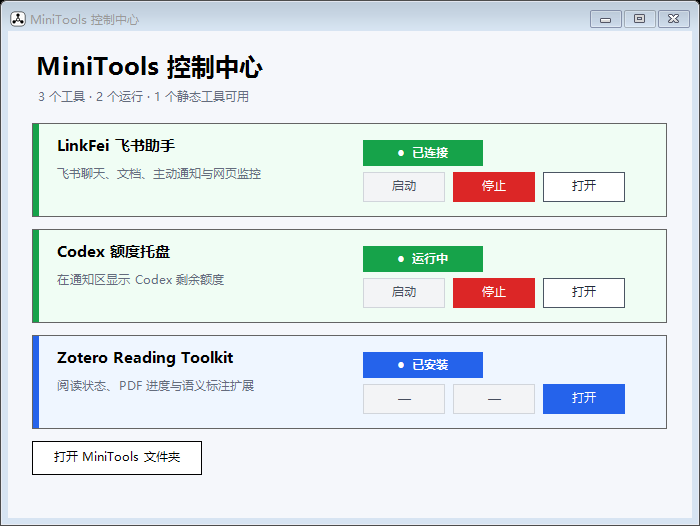
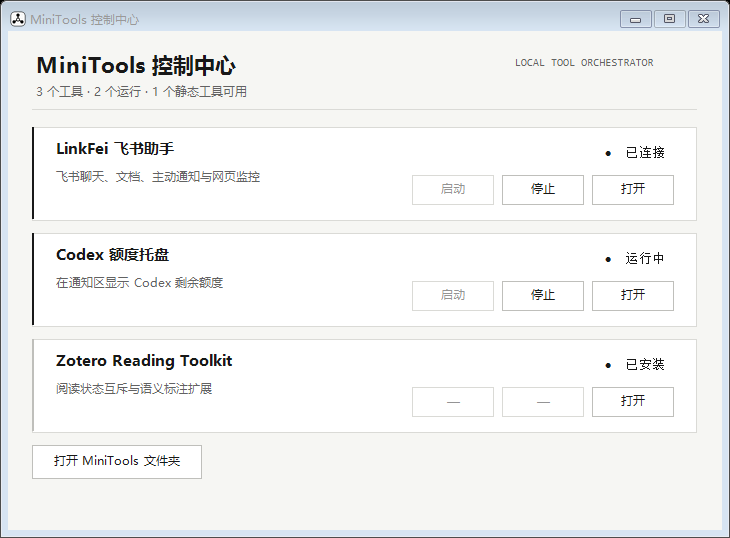
docs: refresh controller screenshot and feature guide

diff --git a/README.md b/README.md
@@ -8,12 +8,18 @@
 
 | 工具 | 功能 | 运行环境 |
 | --- | --- | --- |
-| [MiniTools 控制中心](minitools-controller/README.md) | 统一显示状态、启动、停止、打开并自动恢复本地工具 | Windows PowerShell 5.1 |
+| [MiniTools 控制中心](minitools-controller/README.md) | 统一显示状态、启动、停止、打开并自动恢复本地工具；自动跟随 Windows 深浅色主题 | Windows PowerShell 5.1 |
 | [Codex Quota Tray](codex-quota-tray/README.md) | 在通知区域用双环展示 Codex 短周期和长周期剩余额度 | Windows 10/11、已登录的 Codex |
-| [LinkFei](linkfei/README.md) | 飞书长连接机器人、DeepSeek 问答、文档、记忆与网页监控 | Node.js 22.5+、飞书应用、DeepSeek API |
-| [Zotero Reading Toolkit](zotero-reading-toolkit/README.md) | Zotero 阅读状态互斥和语义标注类型 | Zotero 8–10 |
+| [LinkFei](linkfei/README.md) | 飞书长连接机器人、DeepSeek 问答、文档、记忆、通知、网页监控及本机 Codex 远程控制 | Node.js 22.5+、飞书应用、DeepSeek API |
+| [Zotero Reading Toolkit](zotero-reading-toolkit/README.md) | Zotero 阅读状态互斥、语义标注类型与按语义汇总的阅读笔记 | Zotero 8–10 |
 
 各工具可以独立使用；控制中心通过 [`tools.json`](minitools-controller/tools.json) 将它们组合在一起。
+
+## 近期能力
+
+- **飞书控制 Codex**：LinkFei 在本机通过 Codex App Server 创建、查看、继续和停止受限工作目录中的任务。只接受已绑定的飞书私聊，命令审批为单次、限时授权；电脑无需暴露公网端口。
+- **可靠的控制中心**：服务启动和就绪检查异步执行；异常退出按退避策略恢复，连续失败后暂停等待人工处理。界面会随 Windows 的“应用模式”在浅色与深色主题间自动同步。
+- **Zotero 阅读笔记**：可按当前语义标注名称把所选文献或 PDF 的标注汇总为原生 Zotero 笔记，保留文字、评论、页码和返回标注的链接。
 
 ## 快速开始
 
@@ -47,6 +53,15 @@ powershell.exe -ExecutionPolicy Bypass -File .\Install.ps1
 
 安装器会创建开始菜单、桌面和当前用户开机启动入口。也可以直接双击 `Run MiniTools Controller.vbs` 临时运行。
 
+如需从飞书控制本机 Codex，在 LinkFei 已启动、并已在自己的飞书私聊执行 `/notify bind` 后运行：
+
+```powershell
+cd .\linkfei
+node scripts/setup-codex-remote.mjs
+```
+
+该命令只在本机 `data/codex-remote.json` 写入授权私聊与允许的项目目录；完整命令说明见 [LinkFei README](linkfei/README.md#飞书控制-codex)。
+
 ## 目录结构
 
 ```text
@@ -63,7 +78,7 @@ MiniTools/
 仓库不包含任何可用的 API Key、访问令牌、飞书凭据、Codex 登录数据、聊天数据库或运行日志。
 
 - LinkFei 的真实配置只应保存在 `linkfei/.env`；仓库只提供空值模板 `.env.example`。
-- `node_modules/`、`data/`、`logs/`、SQLite 数据库、运行态文件和构建产物均被 `.gitignore` 排除。
+- `node_modules/`、`data/`、`logs/`、SQLite 数据库、Codex 远程控制配置、运行态文件和构建产物均被 `.gitignore` 排除。
 - Codex Quota Tray 通过本机已登录的官方 `codex app-server` 只读获取额度，不读取或保存 Codex 登录令牌。
 - 发布前请再次检查 `git status`，不要使用 `git add -f` 绕过忽略规则。
 
@@ -83,6 +98,13 @@ LinkFei：
 cd .\linkfei
 npm install
 npm test
+node scripts/check-codex.mjs
+```
+
+控制中心：
+
+```powershell
+powershell.exe -NoProfile -ExecutionPolicy Bypass -File .\minitools-controller\Test-Recovery.ps1
 ```
 
 Zotero Reading Toolkit：
@@ -90,6 +112,7 @@ Zotero Reading Toolkit：
 ```powershell
 node .\zotero-reading-toolkit\tests\core.test.js
 node .\zotero-reading-toolkit\tests\integration.test.js
+node .\zotero-reading-toolkit\tests\notes.test.js
 ```
 
 各子目录 README 包含更完整的安装、配置和诊断说明。
